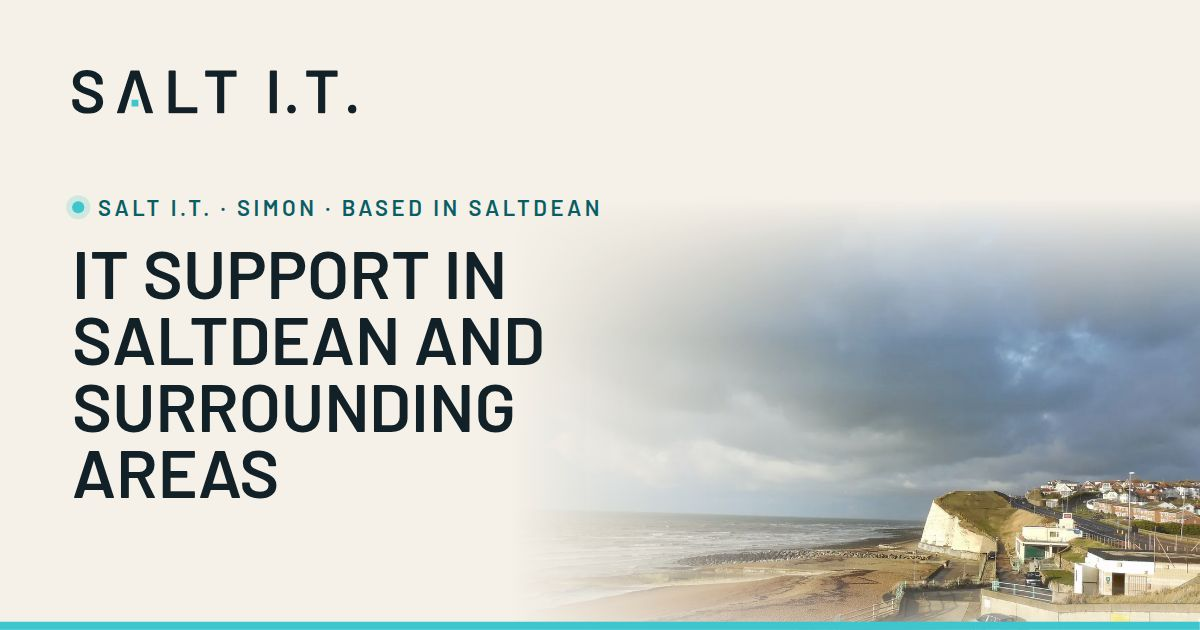
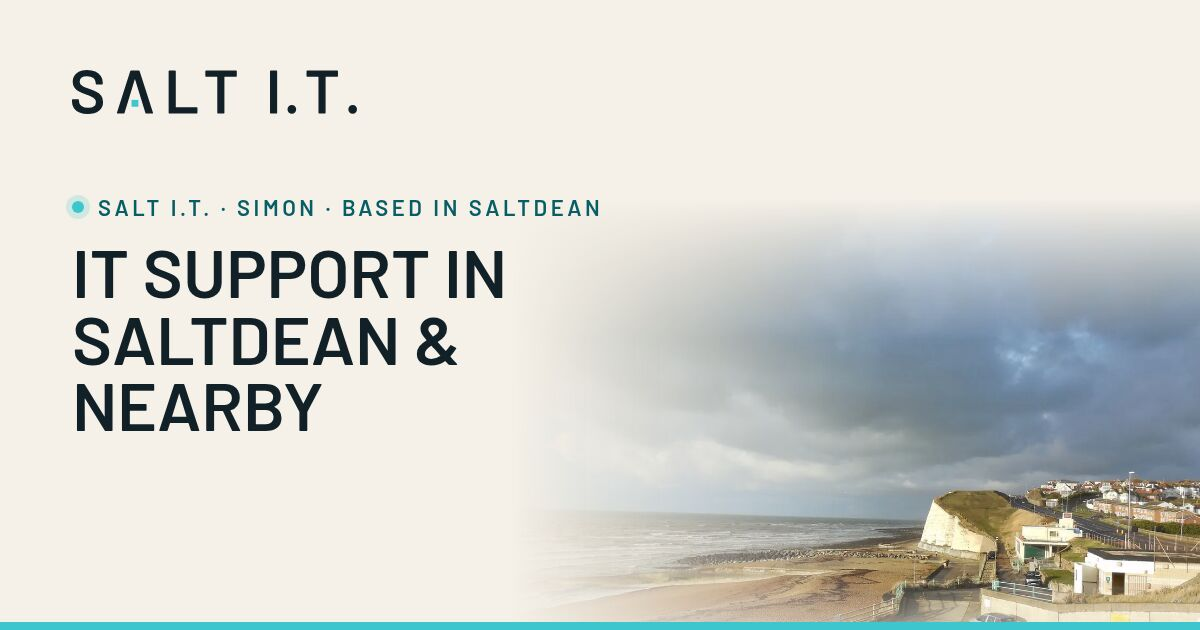
Enquiry success panel, shorter hero, WhatsApp prefill
- On a successful send the form fades out and a large "Thank you. Your
  message has been sent." panel takes its place, repeating the caller's
  phone number. "Send another message" eases back to an empty form.
  Validation, error and mailto paths are unchanged and stay on the form.
- Hero H1 is now "IT SUPPORT IN SALTDEAN & NEARBY" (3 lines on mobile,
  was 4). Phrase lock, OG source and og-image.jpg updated to match.
- Every WhatsApp link opens with "Hi Simon, I need help with..." ready
  to edit; check.mjs asserts the prefilled URL.
- Drop "before I travel / before I visit" price copy (same wording as #14).

diff --git a/site/index.html b/site/index.html
@@ -99,12 +99,12 @@
       </picture>
       <div class="wrap hero-in">
         <p class="eyebrow"><span class="dot" aria-hidden="true"></span>Salt I.T. · Simon · Based in Saltdean</p>
-        <h1 id="hero-h">IT SUPPORT IN SALTDEAN AND SURROUNDING AREAS</h1>
+        <h1 id="hero-h">IT SUPPORT IN SALTDEAN &amp; NEARBY</h1>
         <p class="hero-sub">Wi-Fi, printers, laptops, email and scam scares — reliable home IT support from a neighbour in Saltdean.</p>
         <div class="hero-cta">
           <a class="btn btn-primary" href="tel:+447843468904" data-hero-call aria-label="Call Simon on 07843 468904">Call Simon — <span>07843 468904</span></a>
           <a class="btn btn-line" href="#contact">Book a home visit</a>
-          <a class="btn btn-line" href="https://wa.me/447843468904" aria-label="Message Simon on WhatsApp">
+          <a class="btn btn-line" href="https://wa.me/447843468904?text=Hi%20Simon%2C%20I%20need%20help%20with..." aria-label="Message Simon on WhatsApp">
             <svg viewBox="0 0 24 24" width="16" height="16" aria-hidden="true" focusable="false"><path fill="currentColor" d="M19.05 4.91A9.82 9.82 0 0 0 12.04 2C6.58 2 2.15 6.4 2.15 11.83c0 1.74.46 3.45 1.32 4.95L2 22l5.35-1.4a10.1 10.1 0 0 0 4.69 1.19h.01c5.46 0 9.9-4.4 9.9-9.83 0-2.63-1.03-5.1-2.9-6.95zM12.05 20.15h-.01a8.4 8.4 0 0 1-4.28-1.17l-.3-.18-3.18.83.85-3.1-.2-.32a8.26 8.26 0 0 1-1.27-4.38c0-4.58 3.74-8.3 8.35-8.3 2.23 0 4.32.87 5.9 2.44a8.27 8.27 0 0 1 2.45 5.9c0 4.58-3.75 8.28-8.31 8.28zm4.57-6.21c-.25-.12-1.47-.72-1.7-.81-.23-.08-.39-.12-.56.13-.17.25-.64.8-.79.97-.14.17-.29.19-.54.06-.25-.12-1.05-.39-2-1.23-.74-.66-1.24-1.47-1.38-1.72-.15-.25-.02-.38.11-.51.11-.11.25-.29.37-.43.13-.14.17-.25.25-.41.08-.17.04-.31-.02-.43-.06-.12-.56-1.34-.76-1.84-.2-.48-.4-.42-.56-.42h-.48c-.17 0-.43.06-.66.31-.23.25-.87.85-.87 2.07 0 1.22.89 2.4 1.01 2.56.13.17 1.75 2.67 4.24 3.74.59.26 1.05.41 1.41.52.59.19 1.13.16 1.56.1.48-.07 1.47-.6 1.68-1.18.21-.58.21-1.07.14-1.18-.06-.1-.23-.16-.48-.28z"/></svg>
             WhatsApp
           </a>
@@ -181,7 +181,7 @@
         </div>
         <ol class="steps">
           <li><span class="step-n" aria-hidden="true">Step 1</span><h3>Call or message.</h3><p>Tell me what's gone wrong.</p></li>
-          <li><span class="step-n" aria-hidden="true">Step 2</span><h3>Hear the price.</h3><p>I'll give you the likely cost before I travel.</p></li>
+          <li><span class="step-n" aria-hidden="true">Step 2</span><h3>Hear the price.</h3><p>I'll give you the likely cost up front.</p></li>
           <li><span class="step-n" aria-hidden="true">Step 3</span><h3>Fixed and explained.</h3><p>I'll show you what I did and leave notes.</p></li>
         </ol>
         <div class="ready">
@@ -199,7 +199,7 @@
       <div class="wrap">
         <div class="sec-head">
           <p class="idx"><span>03</span>Prices</p>
-          <h2 id="prices-h">The price, before I visit.</h2>
+          <h2 id="prices-h">Clear prices.</h2>
           <p class="lead">Pay per visit. No contracts, no monthly fee.</p>
         </div>
         <div class="price-grid">
@@ -247,7 +247,7 @@
           <p class="lead">I live in Saltdean and I do home IT support for neighbours around here — Wi-Fi, laptops, printers, email, and the awkward “I think I've been scammed” moments. I've worked in IT for more than twenty years, including years keeping shop and restaurant systems running, so I'm used to turning up, fixing it, and explaining what I did in plain English. If something's broken at home, call me — I'm usually only a few minutes down the road.</p>
         </div>
         <ul class="promises">
-          <li><span class="num" aria-hidden="true">01</span><h3>Price first.</h3><p>You'll hear the likely cost before I travel.</p></li>
+          <li><span class="num" aria-hidden="true">01</span><h3>Price first.</h3><p>You'll hear the likely cost up front.</p></li>
           <li><span class="num" aria-hidden="true">02</span><h3>Plain English.</h3><p>No jargon, and no making you feel daft for asking.</p></li>
           <li><span class="num" aria-hidden="true">03</span><h3>I'll show you what I did.</h3><p>And I'll leave written steps if you want them.</p></li>
           <li><span class="num" aria-hidden="true">04</span><h3>I'll come back if it comes back.</h3><p>The same problem within 14 days is on me.</p></li>
@@ -326,51 +326,62 @@
           <p class="lead">The quickest way is to call or WhatsApp. If I'm with a customer, leave a message and I'll ring you back as soon as I can.</p>
           <a class="bigtel" href="tel:+447843468904" aria-label="Call Simon on 07843 468904"><span class="mini">Call Simon</span><span class="num-big">07843 468904</span></a>
           <ul class="contact-list">
-            <li><span class="mini">WhatsApp</span><a href="https://wa.me/447843468904" aria-label="Message Simon on WhatsApp">07843 468904</a></li>
+            <li><span class="mini">WhatsApp</span><a href="https://wa.me/447843468904?text=Hi%20Simon%2C%20I%20need%20help%20with..." aria-label="Message Simon on WhatsApp">07843 468904</a></li>
             <li><span class="mini">Email</span><a href="mailto:support@saltit.co.uk">support@saltit.co.uk</a></li>
             <li><span class="mini">Where</span><span>Based in Saltdean, East Sussex</span></li>
             <li><span class="mini">Hours</span><span>Mon–Fri 9am–6pm</span></li>
           </ul>
         </div>
 
-        <form class="form" hidden data-enquiry>
-          <h3>Or send a short note</h3>
-          <div class="field">
-            <label for="f-name">Your name</label>
-            <input id="f-name" name="name" type="text" autocomplete="name" required>
+        <div class="enquiry" data-enquiry-wrap>
+          <form class="form" hidden data-enquiry>
+            <h3>Or send a short note</h3>
+            <div class="field">
+              <label for="f-name">Your name</label>
+              <input id="f-name" name="name" type="text" autocomplete="name" required>
+            </div>
+            <div class="field">
+              <label for="f-phone">Phone number <span>(so I can call you back)</span></label>
+              <input id="f-phone" name="phone" type="tel" autocomplete="tel" inputmode="tel" required>
+            </div>
+            <div class="field">
+              <label for="f-area">Where are you?</label>
+              <select id="f-area" name="area" required>
+                <option value="">Choose one</option>
+                <option>Saltdean</option>
+                <option>Rottingdean</option>
+                <option>Peacehaven</option>
+                <option>Woodingdean</option>
+                <option>Brighton &amp; Hove</option>
+                <option>Somewhere else</option>
+              </select>
+            </div>
+            <div class="field">
+              <label for="f-problem">What's gone wrong?</label>
+              <textarea id="f-problem" name="problem" rows="4" placeholder="e.g. The printer stopped working after BT changed our router." required></textarea>
+            </div>
+            <div class="check">
+              <input id="f-other" name="for_someone_else" type="checkbox" value="yes">
+              <label for="f-other">I'm booking for someone else</label>
+            </div>
+            <div class="hp" aria-hidden="true">
+              <label for="f-hp">Leave blank</label>
+              <input id="f-hp" name="hp_field" type="text" tabindex="-1" autocomplete="off">
+            </div>
+            <p class="form-status" role="status" aria-live="polite" data-status></p>
+            <button class="btn btn-primary" type="submit">Send to Simon</button>
+            <p class="form-note">This comes straight to me. Prefer to talk? <a href="tel:+447843468904">Call 07843 468904</a> or <a href="https://wa.me/447843468904?text=Hi%20Simon%2C%20I%20need%20help%20with...">WhatsApp</a>.</p>
+          </form>
+
+          <div class="form form-done" hidden data-enquiry-done>
+            <span class="done-mark" aria-hidden="true"><svg viewBox="0 0 24 24" width="28" height="28" focusable="false"><path d="M5 12.5l4.5 4.5L19 7.5" fill="none" stroke="currentColor" stroke-width="2.5" stroke-linecap="square"/></svg></span>
+            <p class="mini">Sent to Simon</p>
+            <h3 tabindex="-1" data-done-title>Thank you. Your message has been sent.</h3>
+            <p class="done-t">I'll read it and ring you back<span data-done-phone-line hidden> on <strong data-done-phone></strong></span> as soon as I can.</p>
+            <p class="done-t done-mute">If it's urgent, call me on <a href="tel:+447843468904">07843 468904</a>.</p>
+            <button class="btn btn-line" type="button" data-enquiry-again>Send another message</button>
           </div>
-          <div class="field">
-            <label for="f-phone">Phone number <span>(so I can call you back)</span></label>
-            <input id="f-phone" name="phone" type="tel" autocomplete="tel" inputmode="tel" required>
-          </div>
-          <div class="field">
-            <label for="f-area">Where are you?</label>
-            <select id="f-area" name="area" required>
-              <option value="">Choose one</option>
-              <option>Saltdean</option>
-              <option>Rottingdean</option>
-              <option>Peacehaven</option>
-              <option>Woodingdean</option>
-              <option>Brighton &amp; Hove</option>
-              <option>Somewhere else</option>
-            </select>
-          </div>
-          <div class="field">
-            <label for="f-problem">What's gone wrong?</label>
-            <textarea id="f-problem" name="problem" rows="4" placeholder="e.g. The printer stopped working after BT changed our router." required></textarea>
-          </div>
-          <div class="check">
-            <input id="f-other" name="for_someone_else" type="checkbox" value="yes">
-            <label for="f-other">I'm booking for someone else</label>
-          </div>
-          <div class="hp" aria-hidden="true">
-            <label for="f-hp">Leave blank</label>
-            <input id="f-hp" name="hp_field" type="text" tabindex="-1" autocomplete="off">
-          </div>
-          <p class="form-status" role="status" aria-live="polite" data-status></p>
-          <button class="btn btn-primary" type="submit">Send to Simon</button>
-          <p class="form-note">This comes straight to me. Prefer to talk? <a href="tel:+447843468904">Call 07843 468904</a> or <a href="https://wa.me/447843468904">WhatsApp</a>.</p>
-        </form>
+        </div>
       </div>
     </section>
   </main>
@@ -381,7 +392,7 @@
         <img class="logo ftr-logo" src="assets/logo.svg" width="155" height="24" alt="Salt I.T.">
         <address>
           Based in Saltdean, East Sussex BN2<br>
-          <a href="tel:+447843468904" aria-label="Call Salt IT on 07843 468904">07843 468904</a> · <a href="https://wa.me/447843468904" aria-label="Message Salt IT on WhatsApp">WhatsApp</a> · <a href="mailto:support@saltit.co.uk">support@saltit.co.uk</a><br>
+          <a href="tel:+447843468904" aria-label="Call Salt IT on 07843 468904">07843 468904</a> · <a href="https://wa.me/447843468904?text=Hi%20Simon%2C%20I%20need%20help%20with..." aria-label="Message Salt IT on WhatsApp">WhatsApp</a> · <a href="mailto:support@saltit.co.uk">support@saltit.co.uk</a><br>
           Home visits in Saltdean, Rottingdean, Peacehaven, Woodingdean and Brighton &amp; Hove
         </address>
       </div>
@@ -399,7 +410,7 @@
 
   <nav class="callbar" aria-label="Quick contact" data-callbar>
     <a class="btn btn-primary" href="tel:+447843468904" aria-label="Call Simon on 07843 468904">Call Simon</a>
-    <a class="btn btn-line" href="https://wa.me/447843468904" aria-label="Message Simon on WhatsApp">
+    <a class="btn btn-line" href="https://wa.me/447843468904?text=Hi%20Simon%2C%20I%20need%20help%20with..." aria-label="Message Simon on WhatsApp">
       <svg viewBox="0 0 24 24" width="16" height="16" aria-hidden="true" focusable="false"><path fill="currentColor" d="M19.05 4.91A9.82 9.82 0 0 0 12.04 2C6.58 2 2.15 6.4 2.15 11.83c0 1.74.46 3.45 1.32 4.95L2 22l5.35-1.4a10.1 10.1 0 0 0 4.69 1.19h.01c5.46 0 9.9-4.4 9.9-9.83 0-2.63-1.03-5.1-2.9-6.95zM12.05 20.15h-.01a8.4 8.4 0 0 1-4.28-1.17l-.3-.18-3.18.83.85-3.1-.2-.32a8.26 8.26 0 0 1-1.27-4.38c0-4.58 3.74-8.3 8.35-8.3 2.23 0 4.32.87 5.9 2.44a8.27 8.27 0 0 1 2.45 5.9c0 4.58-3.75 8.28-8.31 8.28zm4.57-6.21c-.25-.12-1.47-.72-1.7-.81-.23-.08-.39-.12-.56.13-.17.25-.64.8-.79.97-.14.17-.29.19-.54.06-.25-.12-1.05-.39-2-1.23-.74-.66-1.24-1.47-1.38-1.72-.15-.25-.02-.38.11-.51.11-.11.25-.29.37-.43.13-.14.17-.25.25-.41.08-.17.04-.31-.02-.43-.06-.12-.56-1.34-.76-1.84-.2-.48-.4-.42-.56-.42h-.48c-.17 0-.43.06-.66.31-.23.25-.87.85-.87 2.07 0 1.22.89 2.4 1.01 2.56.13.17 1.75 2.67 4.24 3.74.59.26 1.05.41 1.41.52.59.19 1.13.16 1.56.1.48-.07 1.47-.6 1.68-1.18.21-.58.21-1.07.14-1.18-.06-.1-.23-.16-.48-.28z"/></svg>
       WhatsApp
     </a>

diff --git a/site/script.js b/site/script.js
@@ -46,10 +46,67 @@
       `mailto:support@saltit.co.uk?subject=${encodeURIComponent(subject)}&body=${encodeURIComponent(body)}`;
   };
 
-  const markSent = () => {
-    form.reset();
-    status.textContent = "Sent. I'll read this and ring you back.";
+  // On success the form swaps for a large "sent" panel; "Send another message" swaps back.
+  const wrap = d.querySelector("[data-enquiry-wrap]");
+  const done = d.querySelector("[data-enquiry-done]");
+  const formTitle = form.querySelector("h3");
+  const doneTitle = done && done.querySelector("[data-done-title]");
+  const donePhone = done && done.querySelector("[data-done-phone]");
+  const donePhoneLine = done && done.querySelector("[data-done-phone-line]");
+  const again = done && done.querySelector("[data-enquiry-again]");
+  const wait = (ms) => new Promise((resolve) => setTimeout(resolve, ms));
+  const reduceMotion = () => window.matchMedia("(prefers-reduced-motion: reduce)").matches;
+  let swapping = false;
+
+  // Fade one panel out, ease the wrapper to the other's height, then fade it in.
+  const swap = async (from, to, focusEl) => {
+    if (swapping) return;
+    swapping = true;
+    const still = reduceMotion();
+    if (!still) {
+      wrap.style.height = `${wrap.offsetHeight}px`;
+      wrap.classList.add("is-swapping");
+      from.classList.add("is-out");
+      await wait(240);
+      to.classList.add("is-out");
+    }
+    from.hidden = true;
+    from.classList.remove("is-out");
+    to.hidden = false;
+    if (!still) wrap.style.height = `${to.offsetHeight}px`;
+    if (wrap.getBoundingClientRect().top < 0) {
+      wrap.scrollIntoView({ behavior: still ? "auto" : "smooth", block: "start" });
+    }
+    focusEl.focus({ preventScroll: true });
+    if (!still) {
+      requestAnimationFrame(() => requestAnimationFrame(() => to.classList.remove("is-out")));
+      await wait(360);
+      wrap.style.height = "";
+      wrap.classList.remove("is-swapping");
+    }
+    swapping = false;
   };
+
+  const markSent = (phone) => {
+    form.reset();
+    if (!done || !wrap) {
+      status.textContent = "Sent. I'll read this and ring you back.";
+      return;
+    }
+    status.textContent = "";
+    donePhone.textContent = phone || "";
+    donePhoneLine.hidden = !phone;
+    swap(form, done, doneTitle);
+  };
+
+  if (again) {
+    formTitle.tabIndex = -1;
+    again.addEventListener("click", () => {
+      status.textContent = "";
+      for (const el of form.querySelectorAll("[aria-invalid]")) el.removeAttribute("aria-invalid");
+      swap(done, form, formTitle);
+    });
+  }
 
   // Web3Forms rejects the Vercel function. The handler then asks this page to submit.
   const submitViaWeb3Forms = async (fields, accessKey) => {
@@ -96,7 +153,7 @@
     };
 
     if (fields.company) {
-      markSent();
+      markSent(fields.phone);
       return;
     }
 
@@ -118,7 +175,7 @@
       let data = {};
       try { data = await res.json(); } catch { data = {}; }
       if (res.ok && data.ok) {
-        markSent();
+        markSent(fields.phone);
         return;
       }
       if (data.fallback === "client" && data.accessKey) {
@@ -131,7 +188,7 @@
           forSomeoneElse: source.forSomeoneElse === true || source.forSomeoneElse === "yes",
         }, data.accessKey);
         if (sent) {
-          markSent();
+          markSent(fields.phone);
           return;
         }
       }

diff --git a/site/styles.css b/site/styles.css
@@ -866,6 +866,39 @@ strong { font-weight: 600; }
 .form-note a { white-space: nowrap; }
 .form-note a:hover { color: var(--lido-ink); }
 
+/* After a successful send the form swaps for this panel. script.js fades one
+   out, eases the wrapper's height, then fades the other in. */
+.enquiry { scroll-margin-top: calc(var(--bar) + 24px); transition: height 360ms var(--ease); }
+.enquiry.is-swapping { overflow: hidden; }
+.enquiry > .form { transition: opacity 240ms ease, transform 240ms var(--ease); }
+.enquiry > .form.is-out { opacity: 0; transform: translateY(12px); }
+.form-done { padding-block: 36px 40px; }
+.done-mark {
+  display: grid;
+  place-items: center;
+  width: 56px;
+  height: 56px;
+  margin-bottom: 24px;
+  background: var(--lido);
+  color: var(--ink);
+}
+.form-done .mini { margin-bottom: 10px; color: var(--lido-ink); }
+.form-done h3 {
+  max-width: 18ch;
+  margin-bottom: 20px;
+  font-size: clamp(1.875rem, 7vw, 2.5rem);
+  line-height: 1.1;
+  text-transform: none;
+  letter-spacing: 0;
+}
+.enquiry h3:focus { outline: none; }
+.done-t { max-width: 32ch; font-size: 1.3125rem; line-height: 1.5; }
+.done-t strong { font-weight: 600; font-variant-numeric: tabular-nums lining-nums; white-space: nowrap; }
+.done-mute { margin-top: 12px; color: var(--mute); font-size: 1.125rem; }
+.done-mute a { white-space: nowrap; text-underline-offset: 0.22em; text-decoration-thickness: 1px; }
+.done-mute a:hover { color: var(--lido-ink); }
+.form-done .btn { margin-top: 32px; }
+
 /* ---------- Footer ---------- */
 .ftr {
   padding: 48px 0 calc(var(--bar) + 48px + env(safe-area-inset-bottom));
@@ -1003,6 +1036,7 @@ strong { font-weight: 600; }
   .empty { padding: 40px 44px 44px; }
 
   .form { padding: 40px 40px 44px; }
+  .form-done { padding-block: 48px 52px; }
   .form .btn { width: auto; }
   .callbar { display: none; }
   .ftr { padding-bottom: 56px; }

diff --git a/scripts/og-image.html b/scripts/og-image.html
@@ -35,7 +35,7 @@
   <img class="lido" src="../site/assets/cliffs-hero-1440.webp" alt="">
   <img class="brand" src="../site/assets/logo.svg" alt="Salt I.T.">
   <p class="eyebrow">Salt I.T. · Simon · Based in Saltdean</p>
-  <h1>IT SUPPORT IN<br>SALTDEAN AND<br>SURROUNDING<br>AREAS</h1>
+  <h1>IT SUPPORT IN<br>SALTDEAN &amp;<br>NEARBY</h1>
   <div class="bar"></div>
 </body>
 </html>

diff --git a/README.md b/README.md
@@ -54,7 +54,7 @@ Live contact details (keep identical on the site, Google Business Profile, Nextd
 | --- | --- |
 | Phone (display) | `07843 468904` |
 | Phone (`tel:` and JSON-LD) | `+447843468904` |
-| WhatsApp | `https://wa.me/447843468904` |
+| WhatsApp | `https://wa.me/447843468904?text=Hi%20Simon%2C%20I%20need%20help%20with...` (opens a chat with an editable first line) |
 | Email | `support@saltit.co.uk` |
 | Hours | Mon–Fri 9am–6pm · Evenings and Saturdays by arrangement · Same-day: ask, and I'll tell you honestly if I can. |
 
@@ -70,8 +70,9 @@ Still open with Brad:
    no travel supplement elsewhere in Brighton & Hove, and "ring you back as soon as I can".
 4. A Google review link once the Business Profile exists. Simon's photo is on Who you'll get
    (`site/assets/simon-portrait.webp`).
-   WhatsApp is already on the same number (`https://wa.me/447843468904`) in the hero, contact
-   section, footer and sticky bar.
+   WhatsApp is already on the same number in the hero, contact section, form note, footer and
+   sticky bar. Every link opens with "Hi Simon, I need help with..." ready to edit
+   (`scripts/check.mjs` fails if one drifts).
 
 ## Deploy (Vercel)
 
@@ -148,6 +149,9 @@ attribution visible to readers; restore a credit line if the photo stays.
 ## Contact form
 
 `Send to Simon` posts JSON to `/api/enquiry` (same origin, so the form itself stays `form-action 'self'`).
+When the note is sent, the form fades out and a large "Thank you. Your message has been sent." panel
+takes its place, repeating the phone number they gave. "Send another message" brings back an empty
+form. Errors and the mailto fallback still show in the status line above the Send button.
 
 Web3Forms rejects the Node.js serverless runtime. `fetch` there gets a Cloudflare
 challenge, and a plain HTTPS client gets HTTP 403 (`This method is not allowed`). The
